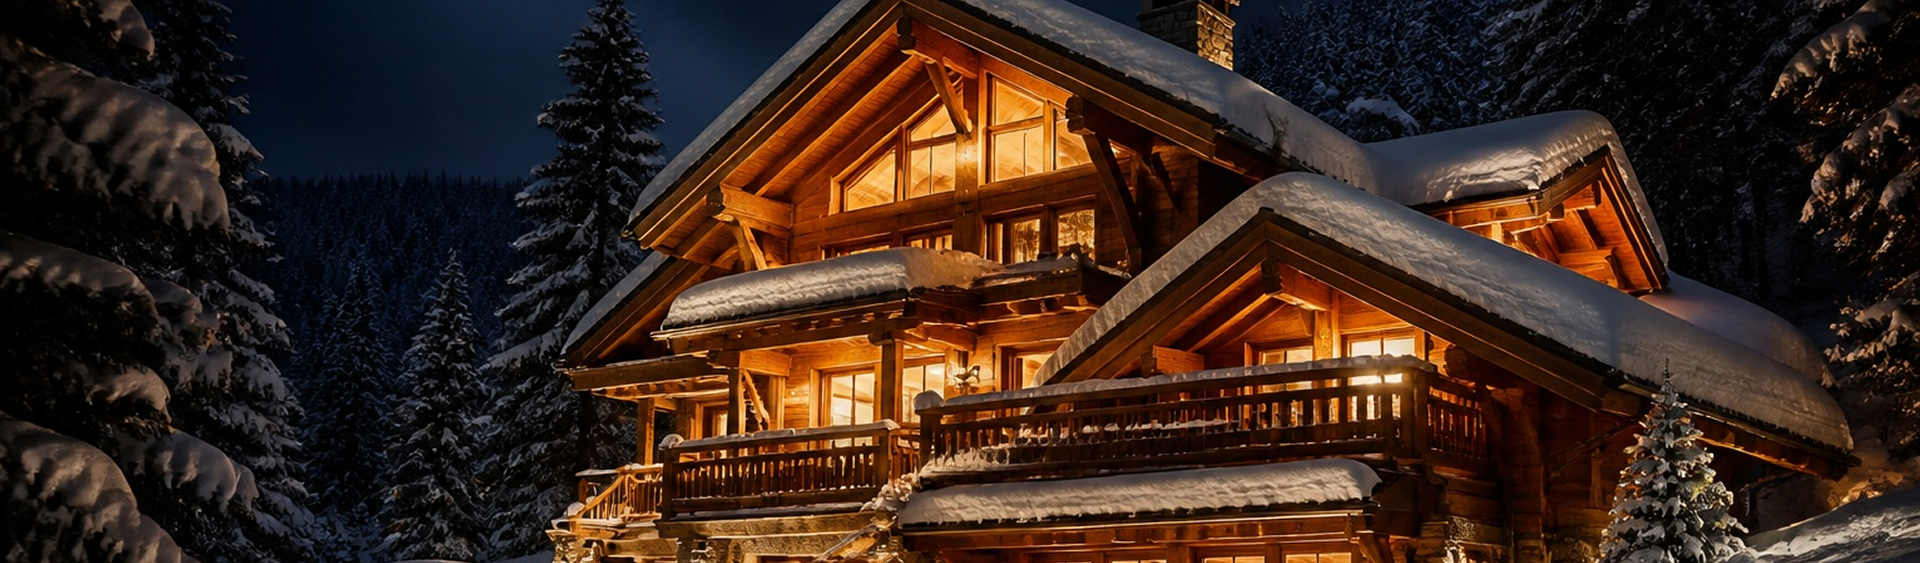
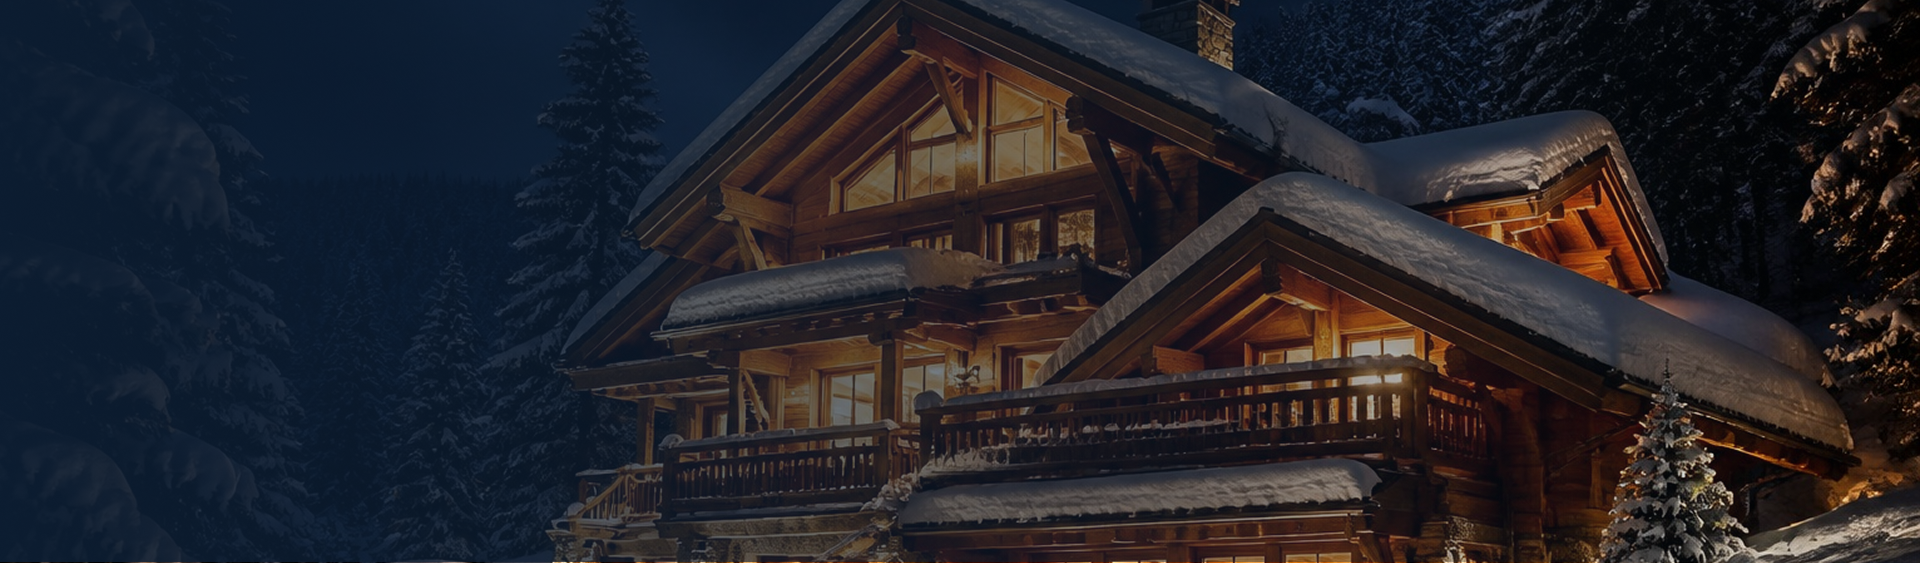
container change updated

diff --git a/src/pages/WinterStays.tsx b/src/pages/WinterStays.tsx
@@ -224,7 +224,7 @@ export default function WinterStays() {
       />
 
       {/* Filter Bar */}
-      <div ref={filterBarRef} className="mx-auto max-w-[1440px] px-4 sm:px-6 pt-6 sm:pt-8 pb-4">
+      <div ref={filterBarRef} className="site-container pt-6 sm:pt-8 pb-4">
         {/* Filter Buttons Row with Interactive Dropdowns */}
         <div className="flex flex-wrap items-center gap-2 sm:gap-2.5">
           {Object.entries(filterConfigs).map(([label, { icon: Icon, hasChevron, options }]) => {
@@ -318,7 +318,7 @@ export default function WinterStays() {
         )}
       </div>
 
-      <div className="mx-auto max-w-[1440px] px-4 sm:px-6">
+      <div className="site-container">
         <div className="border-t border-[#E4EAF2] my-4 sm:mb-[90px]" />
       </div>
 
@@ -476,7 +476,7 @@ export default function WinterStays() {
       </Section>
 
       {/* Featured Collection Showcase Banner */}
-      <div className="mx-auto max-w-[1440px] px-4 sm:px-6 my-10 sm:my-14">
+      <div className="site-container my-10 sm:my-14">
         <div
           className="relative overflow-hidden rounded-[26px] sm:rounded-[32px] min-h-[420px] sm:min-h-[460px] flex items-center bg-cover bg-center"
           style={{ backgroundImage: `url('/images/stay-bg.png')` }}
@@ -565,7 +565,7 @@ export default function WinterStays() {
 
       {/* Browse by Type Swiper Slider Section */}
       <section className="bg-[#EEF6FC] py-12 md:py-[110px] overflow-hidden mt-12 sm:mt-[110px]">
-        <div className="mx-auto max-w-[1440px] px-4 sm:px-6">
+        <div className="site-container">
           <div className="flex flex-col sm:flex-row sm:items-end justify-between gap-4">
             <div>
               <p className="text-xs sm:text-[13px] font-semibold uppercase tracking-wider text-sky mb-1">
@@ -589,7 +589,7 @@ export default function WinterStays() {
         <div
           className="mt-6 sm:mt-8"
           style={{
-            paddingLeft: 'max(1rem, calc((100vw - 1440px) / 2 + 1.5rem))',
+            paddingLeft: 'max(1rem, calc((100vw - var(--container-max-w)) / 2 + 1.5rem))',
           }}
         >
           <Swiper
@@ -629,7 +629,7 @@ export default function WinterStays() {
 
       {/* Find Stays by Location Section */}
       <section className="py-12 md:py-16 bg-white">
-        <div className="mx-auto max-w-[1440px] px-4 sm:px-6">
+        <div className="site-container">
           {/* Header with Title & View Mode Toggle & Location Filters */}
           <div className="flex flex-col lg:flex-row lg:items-end justify-between gap-4 mb-6">
             <div>
@@ -862,7 +862,7 @@ export default function WinterStays() {
 
       {/* This Week’s Highlighted Stay Section */}
       <section className="bg-[#031B33] py-16 md:py-20 lg:py-24">
-        <div className="mx-auto max-w-[1440px] px-4 sm:px-6">
+        <div className="site-container">
           <div className="mb-6 sm:mb-8">
             <p className="text-xs sm:text-[13px] font-semibold uppercase tracking-wider text-[#7EC8E3] mb-1.5">
               STAFF PICK
@@ -985,7 +985,7 @@ export default function WinterStays() {
 
       {/* Stays You May Like Section with Swiper Slider */}
       <section className="py-12 md:py-16 bg-white overflow-hidden">
-        <div className="mx-auto max-w-[1440px] px-4 sm:px-6">
+        <div className="site-container">
           <div className="flex flex-col sm:flex-row sm:items-end justify-between gap-4 mb-6">
             <div>
               <p className="text-xs sm:text-[13px] font-semibold uppercase tracking-wider text-sky mb-1">
@@ -1008,7 +1008,7 @@ export default function WinterStays() {
         <div
           className="mt-6 sm:mt-8"
           style={{
-            paddingLeft: 'max(1rem, calc((100vw - 1440px) / 2 + 1.5rem))',
+            paddingLeft: 'max(1rem, calc((100vw - var(--container-max-w)) / 2 + 1.5rem))',
           }}
         >
           <Swiper
@@ -1025,7 +1025,7 @@ export default function WinterStays() {
                 <div
                   className="w-[280px] sm:w-[320px] md:w-[340px] lg:w-[380px]"
                   style={{
-                    width: 'clamp(280px, calc((min(100vw, 1440px) - 108px) / 3.5), 382px)',
+                    width: 'clamp(280px, calc((min(100vw, var(--container-max-w)) - 108px) / 3.5), 382px)',
                   }}
                 >
                   <div className="group rounded-[24px] border border-slate-200/80 bg-white p-3.5 hover:shadow-lg transition-all duration-300 flex flex-col justify-between h-full">

diff --git a/src/components/HostBanner.tsx b/src/components/HostBanner.tsx
@@ -9,28 +9,25 @@ export default function HostBanner() {
         style={{ backgroundImage: `url('/images/l-host.png')` }}
       />
 
-      {/* Dark gradient overlay on the left for crisp text contrast */}
-      <div className="absolute inset-0 bg-gradient-to-r from-navy via-navy/95 md:via-navy/85 to-navy/50 md:to-transparent" />
-
       {/* Content Container */}
-      <div className="relative z-10 mx-auto max-w-[1440px] px-4 sm:px-6 lg:px-8 py-16 sm:py-20 md:py-24">
+      <div className="relative z-10 site-container py-16 sm:py-20 md:py-[110px]">
         <div className="max-w-xl">
           <h2 className="font-head text-2xl sm:text-3xl md:text-4xl font-semibold text-white tracking-tight leading-tight">
             Own a Property Made for Winter?
           </h2>
 
-          <p className="mt-3 text-xs sm:text-sm md:text-[15px] leading-relaxed text-white/80 font-body">
+          <p className="mt-5 text-xs sm:text-sm md:text-base leading-relaxed text-wh[#F0F4F8] font-body">
             List your cabin, chalet, lodge or unique winter stay and connect with travellers searching for their next cold-weather escape.
           </p>
 
           {/* 3 Checkmark Bullet Points */}
-          <ul className="mt-6 space-y-3 font-body">
+          <ul className="mt-[35px] space-y-3 font-body">
             {[
               'Reach winter-focused travellers',
               'Simple listing process',
               'More direct booking opportunities',
             ].map((item) => (
-              <li key={item} className="flex items-center gap-3 text-xs sm:text-sm text-white/90">
+              <li key={item} className="flex items-center gap-3 text-sm sm:text-base text-[#F0F4F8]">
                 <svg
                   className="h-4 w-4 shrink-0 text-sky"
                   viewBox="0 0 24 24"
@@ -51,18 +48,12 @@ export default function HostBanner() {
           </ul>
 
           {/* Action Buttons */}
-          <div className="mt-8 flex flex-wrap items-center gap-3.5">
+          <div className="mt-10 flex flex-wrap items-center gap-3.5">
             <Link
               to="/list-property"
-              className="inline-flex items-center justify-center rounded-full bg-sky px-6 py-2.5 sm:px-7 sm:py-3 text-xs sm:text-sm font-semibold text-navy transition-all duration-200 hover:brightness-105 active:scale-95 shadow-sm"
+              className="inline-flex items-center justify-center rounded-[18px] bg-[#7EC8E3] px-6 py-2.5 sm:px-7 sm:py-3 text-sm sm:text-base font-medium text-[#02213B] transition-all duration-200 hover:brightness-105 active:scale-95"
             >
               List Your Property
-            </Link>
-            <Link
-              to="/list-property"
-              className="inline-flex items-center justify-center rounded-full border border-white/40 bg-white/5 px-6 py-2.5 sm:px-7 sm:py-3 text-xs sm:text-sm font-medium text-white backdrop-blur-sm transition-all duration-200 hover:border-white/80 hover:bg-white/15 active:scale-95"
-            >
-              Learn More
             </Link>
           </div>
         </div>

diff --git a/src/components/Blocks.tsx b/src/components/Blocks.tsx
@@ -212,7 +212,7 @@ export const Experiences = ({
       <div
         className="mt-8"
         style={{
-          paddingLeft: "max(1rem, calc((100vw - 1440px) / 2 + 1.5rem))",
+          paddingLeft: "max(1rem, calc((100vw - var(--container-max-w)) / 2 + 1.5rem))",
         }}
       >
         <Swiper
@@ -273,14 +273,14 @@ export const Deals = ({
           className="h-[354px] rounded-2xl"
           overlay="bg-gradient-to-t from-black/75 via-black/20 to-transparent"
         >
-          <span className="absolute left-5 top-5 rounded-full bg-[#7EC8E3] px-[15px] py-2 text-sm font-medium text-[#0D1F35] tracking-wide">
+          <span className="absolute left-5 top-5 rounded-full bg-[#7EC8E3] px-[15px] py-2 text-xs font-medium text-[#0D1F35] tracking-wide">
             SAVE UP TO 20%
           </span>
           <div className="absolute inset-x-4 bottom-4 flex items-end justify-between text-white">
             <div>
               <p className="text-2xl font-semibold leading-tight">{l}</p>
               <p className="mt-5 flex items-baseline gap-1">
-                <b className="text-xl font-bold">€289</b>
+                <b className="text-2xl font-bold">€289</b>
                 <span className="text-sm text-[#98A1AC]">/night</span>
               </p>
             </div>

diff --git a/src/pages/Destinations.tsx b/src/pages/Destinations.tsx
@@ -39,7 +39,7 @@ export default function DestinationsPage() {
         />
 
         {/* Content Container */}
-        <div className="relative z-10 mx-auto max-w-[1440px] px-4 sm:px-6 lg:px-8 py-16 sm:py-20 md:py-[111px]">
+        <div className="relative z-10 site-container py-16 sm:py-20 md:py-[111px]">
           <div className="max-w-[500px]">
             <h2 className="text-2xl sm:text-3xl md:text-4xl font-semibold text-white tracking-tight leading-tight">
               Northern Norway
@@ -110,7 +110,7 @@ export default function DestinationsPage() {
           </div>
 
           {/* Right side aligned to container */}
-          <div className="flex flex-col justify-center py-12 px-6 sm:px-12 lg:py-16 lg:pl-[50px] xl:pr-[max(1.5rem,calc((100vw-1440px)/2+1.5rem))]">
+          <div className="flex flex-col justify-center py-12 px-6 sm:px-12 lg:py-16 lg:pl-[50px] xl:pr-[max(1.5rem,calc((100vw-var(--container-max-w))/2+1.5rem))]">
             <div className="max-w-xl">
               <p className="text-xs sm:text-[13px] font-semibold uppercase tracking-wider text-sky">
                 THE WINTERERS EDIT

diff --git a/src/index.css b/src/index.css
@@ -1,6 +1,40 @@
 @tailwind base;@tailwind components;@tailwind utilities;
+
+:root {
+  --container-max-w: 1170px;
+}
+
+@media (min-width: 1441px) {
+  :root {
+    --container-max-w: 1440px;
+  }
+}
+
 body{@apply font-body text-navy antialiased overflow-x-hidden}
 h1,h2,h3,h4,h5,h6{@apply font-head}
+
+/* Common site container managed centrally:
+   - 1170px on screens up to 1440px
+   - 1440px on screens larger than 1440px
+   - Fully responsive with smart padding on mobile/tablet
+*/
+@layer components {
+  .site-container {
+    width: 100%;
+    margin-left: auto;
+    margin-right: auto;
+    max-width: var(--container-max-w);
+    padding-left: 1rem;
+    padding-right: 1rem;
+  }
+
+  @media (min-width: 640px) {
+    .site-container {
+      padding-left: 1.5rem;
+      padding-right: 1.5rem;
+    }
+  }
+}
 /* react-datepicker theme overrides */
 .react-datepicker{font-family:"DM Sans",sans-serif;border:1px solid #e2e8f0;border-radius:1rem;box-shadow:0 10px 40px -8px rgba(6,37,65,0.18);overflow:hidden}
 .react-datepicker__header{background:#062541;border-bottom:none;border-radius:0;padding:12px 0 8px}

diff --git a/src/components/Footer.tsx b/src/components/Footer.tsx
@@ -70,7 +70,7 @@ export default function Footer() {
         <div className="absolute inset-x-0 top-0 h-1/2 bg-white pointer-events-none" />
 
         {/* Newsletter Floating / Overlapping Card */}
-        <div className="relative z-10 mx-auto max-w-[1360px] px-4 sm:px-6 lg:px-8 pt-8 sm:pt-14 md:pt-16">
+        <div className="relative z-10 site-container pt-8 sm:pt-14 md:pt-16">
           <div className="relative overflow-hidden rounded-[26px] sm:rounded-[32px] bg-[#07192C]">
             {/* Background Image of Cozy Winter Cabin */}
             <div
@@ -118,7 +118,7 @@ export default function Footer() {
       </div>
 
       {/* Main Footer Content */}
-      <div className="mx-auto max-w-[1360px] px-4 sm:px-6 lg:px-8 pt-4 sm:pt-8 md:pt-[60px] pb-10 sm:pb-12">
+      <div className="site-container pt-4 sm:pt-8 md:pt-[60px] pb-10 sm:pb-12">
         <div className="grid grid-cols-1 sm:grid-cols-2 lg:grid-cols-[1.5fr_1fr_1.2fr_1.5fr] gap-10 lg:gap-12">
           {/* Column 1: Brand Info & Socials */}
           <div>

diff --git a/src/components/CuratedExperiencesSlider.tsx b/src/components/CuratedExperiencesSlider.tsx
@@ -10,7 +10,7 @@ import type { Stay } from '../types';
 export default function CuratedExperiencesSlider({ stays }: { stays: Stay[] }) {
   return (
     <section className="py-12 md:py-16 bg-white overflow-hidden">
-      <div className="mx-auto max-w-[1440px] px-4 sm:px-6">
+      <div className="site-container">
         <div className="flex flex-col sm:flex-row sm:items-end justify-between gap-4 mb-6">
           <div>
             <p className="text-xs sm:text-[13px] font-semibold uppercase tracking-wider text-sky mb-1">
@@ -33,7 +33,7 @@ export default function CuratedExperiencesSlider({ stays }: { stays: Stay[] }) {
       <div
         className="mt-6 sm:mt-8"
         style={{
-          paddingLeft: 'max(1rem, calc((100vw - 1440px) / 2 + 1.5rem))',
+          paddingLeft: 'max(1rem, calc((100vw - var(--container-max-w)) / 2 + 1.5rem))',
         }}
       >
         <Swiper

diff --git a/src/components/Hero.tsx b/src/components/Hero.tsx
@@ -76,7 +76,7 @@ export default function Hero({
 
         {/* Inner Search Bar - Placed comfortably inside hero banner */}
         {search && searchPosition === 'inner' && (
-          <div className="w-full max-w-[1140px] mt-7 sm:mt-9">
+          <div className="w-full max-w-[var(--container-max-w)] mt-7 sm:mt-9">
             {search}
           </div>
         )}
@@ -85,7 +85,7 @@ export default function Hero({
       {/* Search Bar - Positioned at bottom edge overlapping */}
       {search && searchPosition === 'overlap' && (
         <div className="absolute inset-x-0 bottom-0 translate-y-1/2 z-20 px-4 sm:px-6">
-          <div className="mx-auto max-w-[1140px]">{search}</div>
+          <div className="mx-auto max-w-[var(--container-max-w)]">{search}</div>
         </div>
       )}
     </div>

diff --git a/src/pages/Home.tsx b/src/pages/Home.tsx
@@ -65,7 +65,7 @@ export default function Home() {
         />
         <div className="grid gap-6 sm:grid-cols-2 lg:grid-cols-3">
           {why.map(({ icon: Icon, title, text }) => (
-            <div key={title} className="rounded-2xl border border-[#F9F9F9] bg-[#F8FAFB] p-6 hover:border-[#D0DCE8] hover:shadow-sm transition">
+            <div key={title} className="rounded-[26px] border border-[#D0DCE8] bg-[#F9F9F9] p-[27px] hover:border-[#D0DCE8] hover:shadow-sm transition">
               <div className="mb-[21px] inline-flex h-[52px] w-[52px] items-center justify-center rounded-[17px] bg-white">
                 <Icon className="h-5 w-5 text-[#02213B]" strokeWidth={1.6} />
               </div>

diff --git a/src/components/LaplandFeature.tsx b/src/components/LaplandFeature.tsx
@@ -2,9 +2,9 @@ import { Link } from 'react-router-dom';
 
 export default function LaplandFeature() {
   return (
-    <section className="pyt12 md:pt-16">
-      <div className="">
-        <div className="grid grid-cols-1 items-center gap-8 lg:grid-cols-2 lg:gap-10 bg-[#F9F9F9]">
+    <section className="py-12 md:py-16">
+      <div className="site-container">
+        <div className="grid grid-cols-1 items-center gap-8 lg:grid-cols-2 lg:gap-10 bg-[#F9F9F9] rounded-[24px] overflow-hidden">
           {/* Left Column: Image with Aurora and Cabin */}
           <div className="relative w-full overflow-hidden">
             <img

diff --git a/src/components/Container.tsx b/src/components/Container.tsx
@@ -1,2 +1,11 @@
-import type {ReactNode} from 'react';
-export default function Container({className='',children}:{className?:string;children:ReactNode}){return <div className={`mx-auto w-full max-w-[1440px] px-4 sm:px-6 ${className}`}>{children}</div>}
+import type { ReactNode } from 'react';
+
+export default function Container({
+  className = '',
+  children,
+}: {
+  className?: string;
+  children: ReactNode;
+}) {
+  return <div className={`site-container ${className}`}>{children}</div>;
+}

diff --git a/src/pages/PropertyDetail.tsx b/src/pages/PropertyDetail.tsx
@@ -36,7 +36,7 @@ export default function PropertyDetail() {
   return (
     <>
       {/* Image Gallery */}
-      <Container className="!max-w-[1400px] pt-24 md:pt-28">
+      <Container className="pt-24 md:pt-28">
         <p className="mb-3 text-[10px] text-navy/50">
           <Link to="/stays">Winter Stays</Link> / Norway / Arktis Fjord Cabin
         </p>
